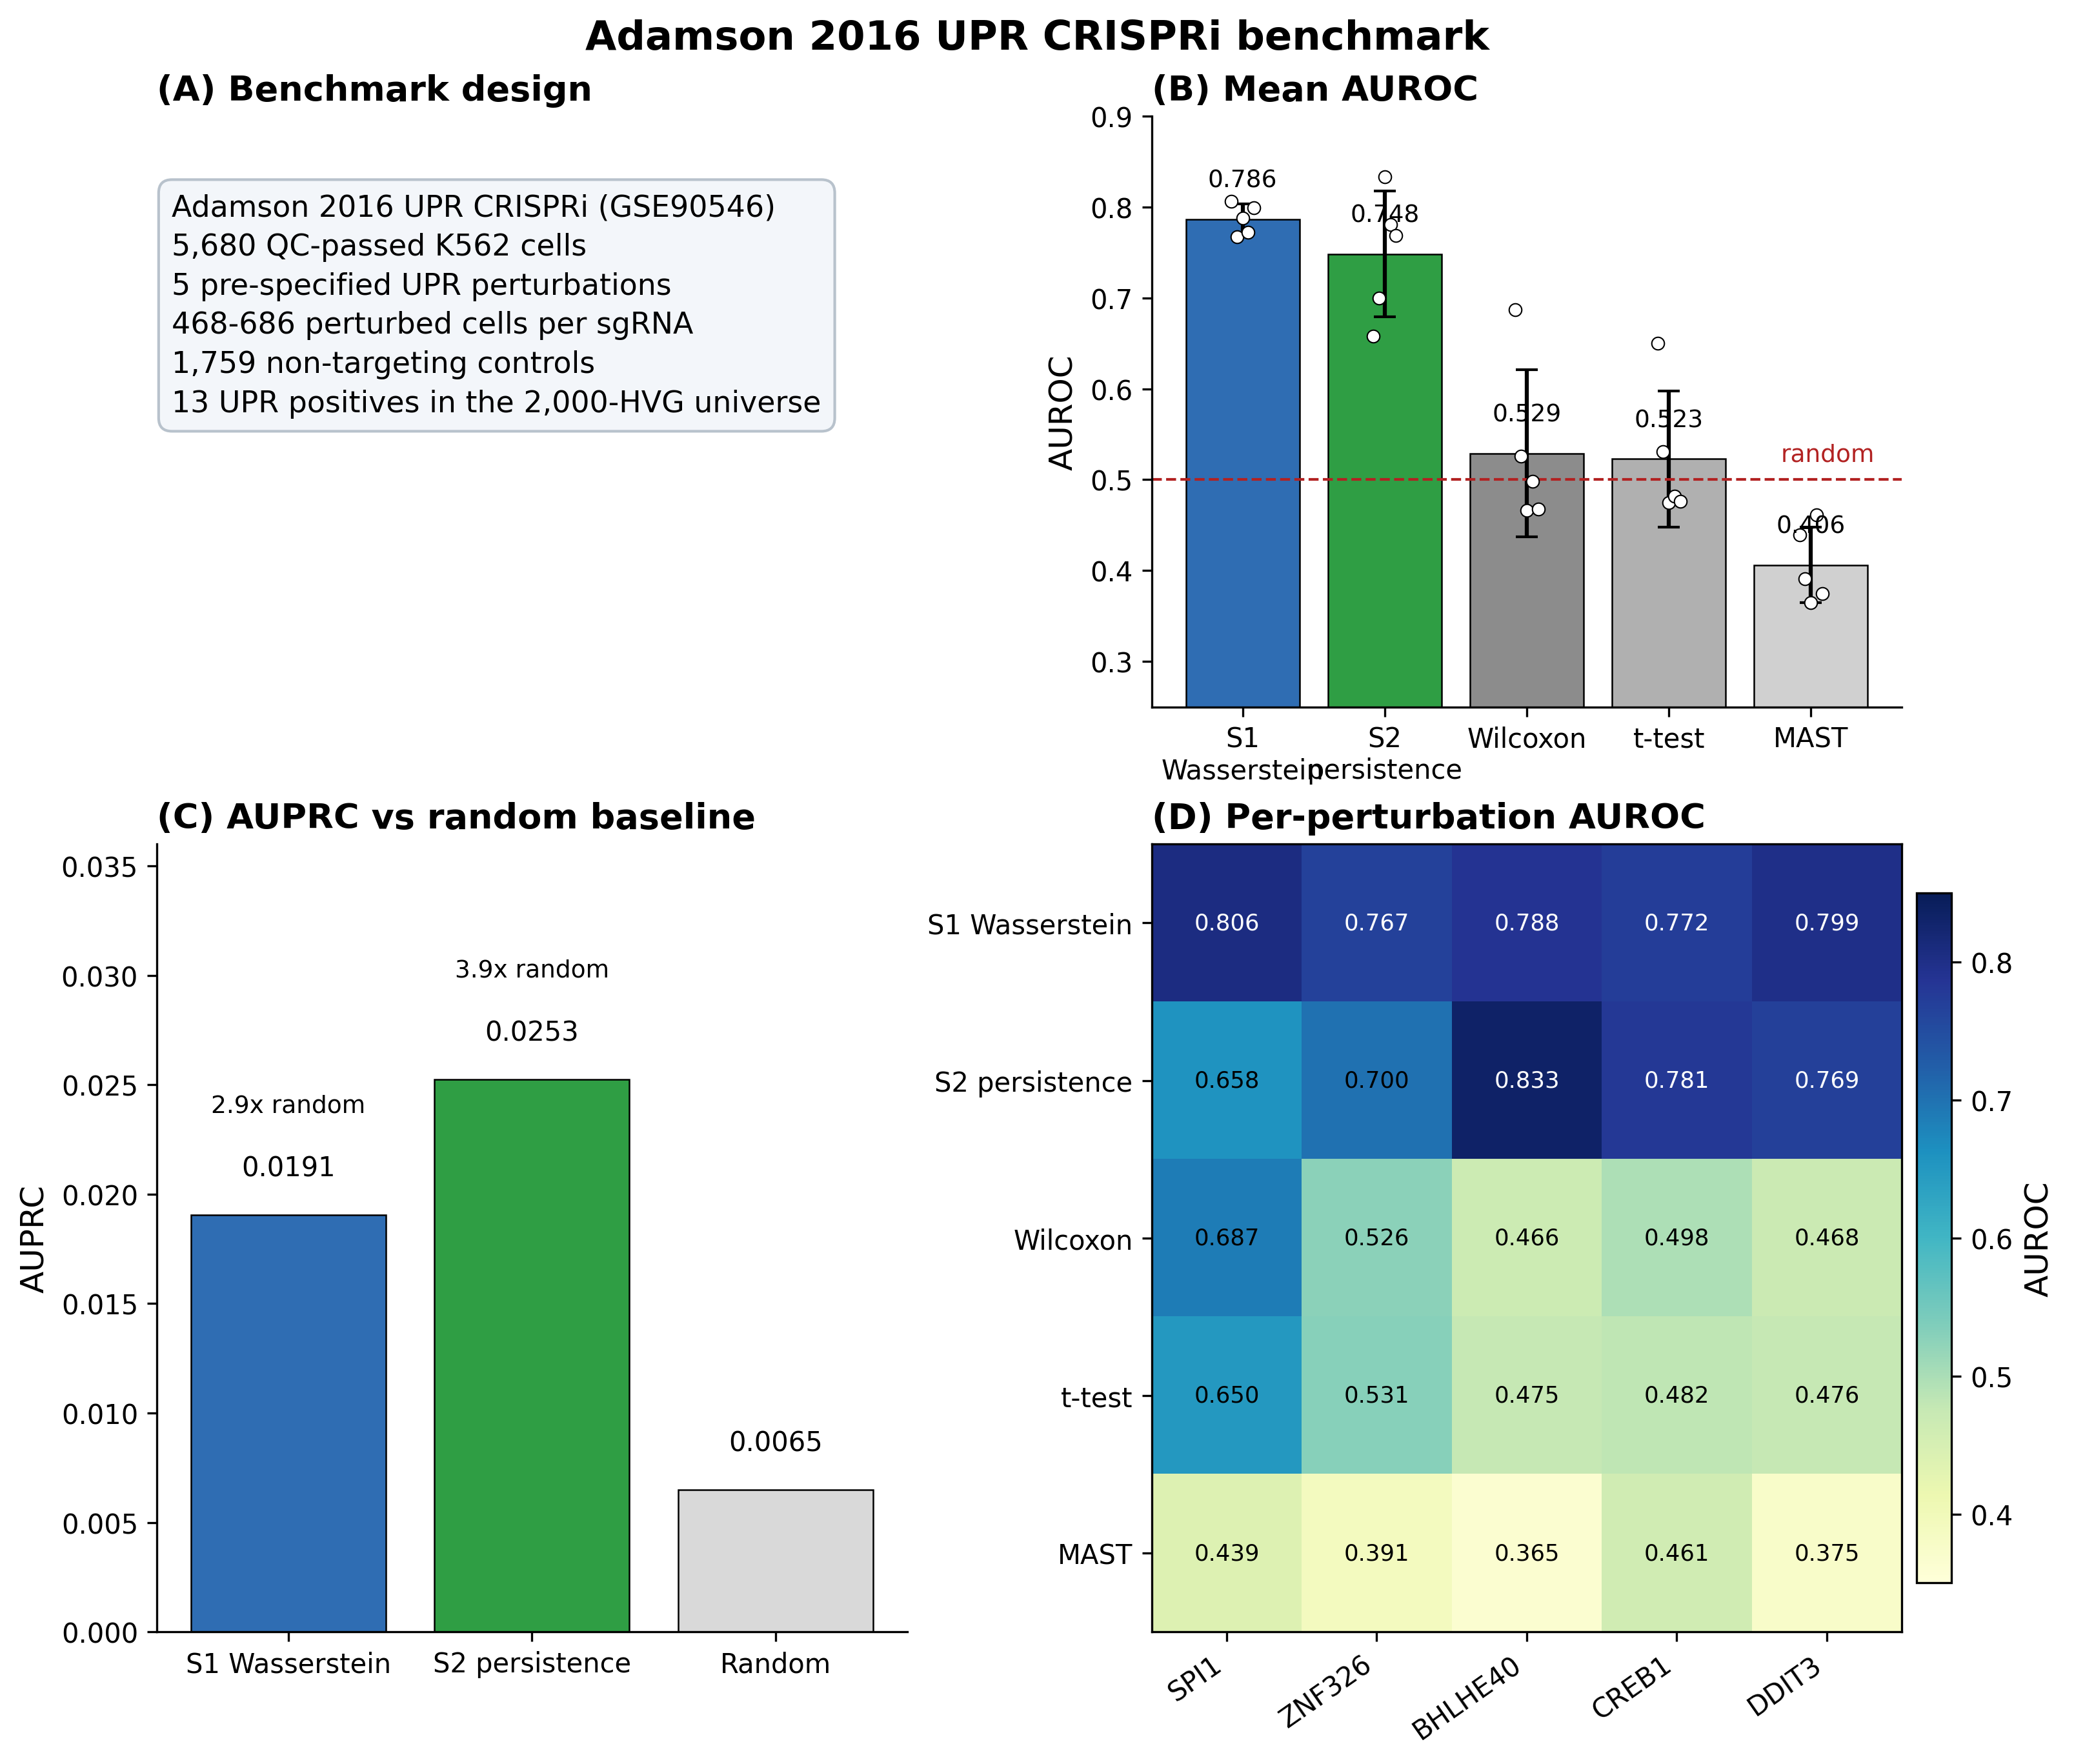
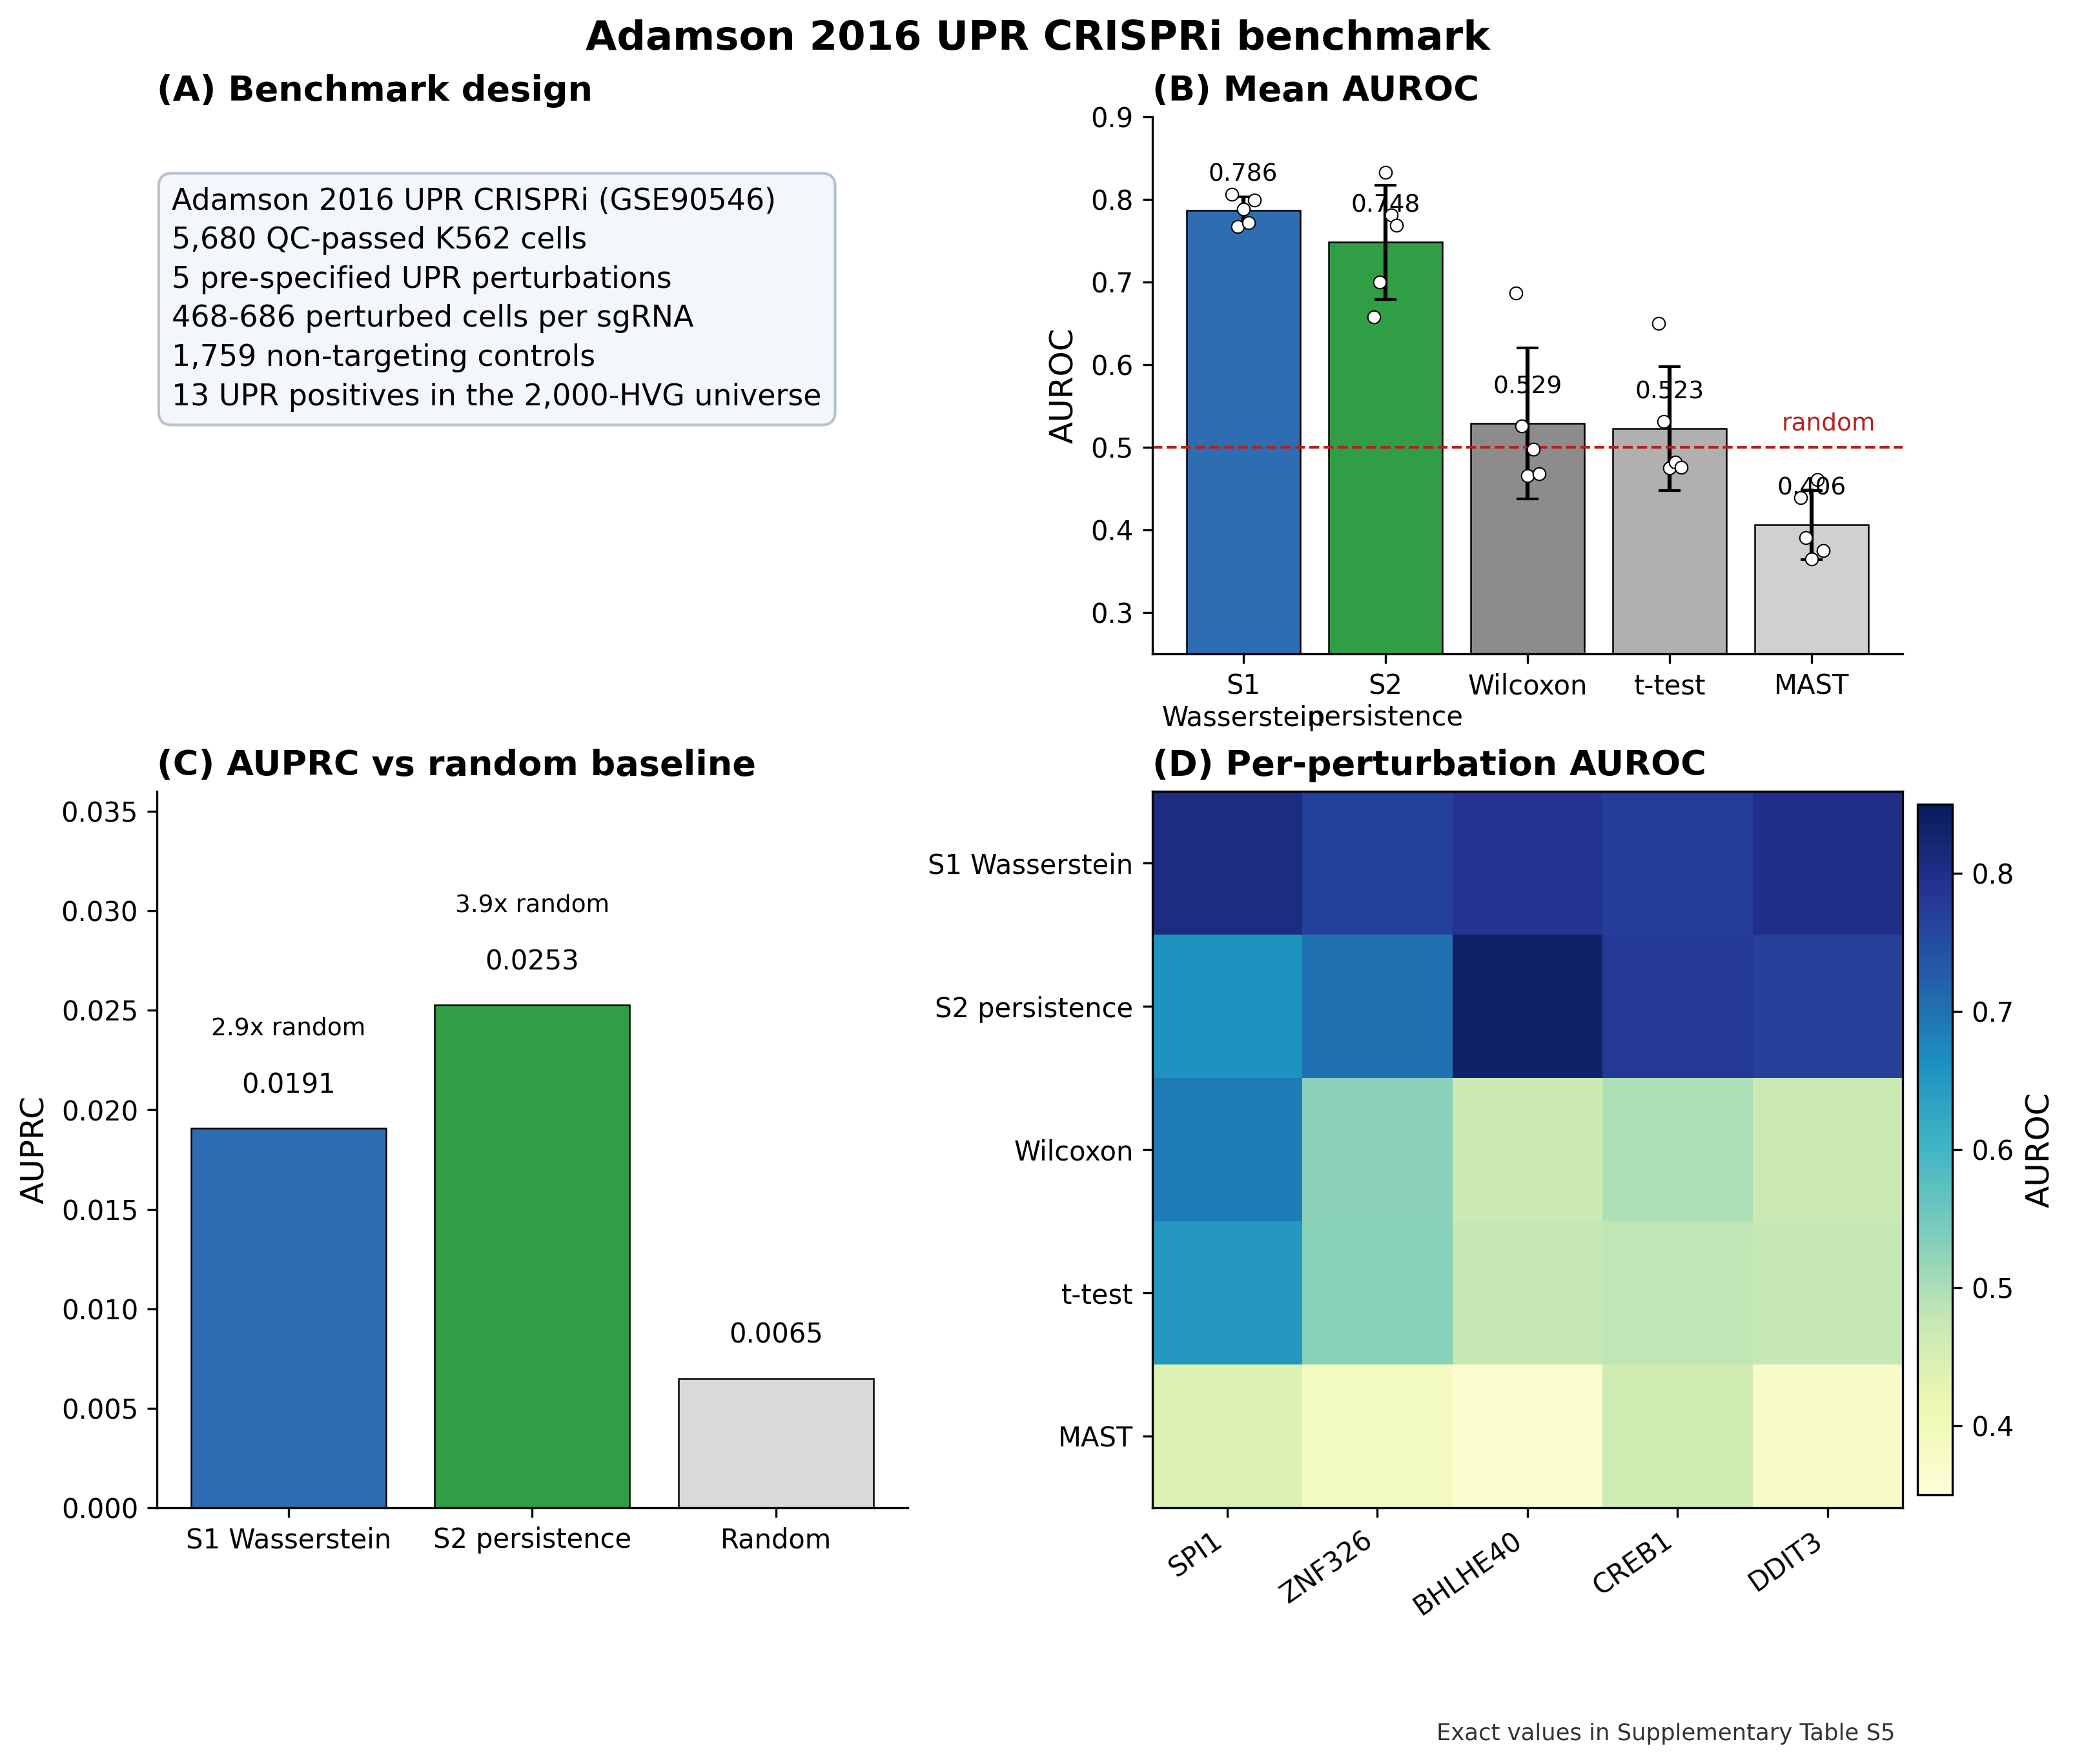
Tighten final Bioinformatics manuscript layout

diff --git a/scripts/figure_adamson_benchmark.py b/scripts/figure_adamson_benchmark.py
@@ -106,12 +106,18 @@ def main() -> None:
     ax_d.set_xticklabels(targets, rotation=35, ha="right")
     ax_d.set_yticks(np.arange(len(methods)))
     ax_d.set_yticklabels([m[0] for m in methods])
-    for i in range(heat.shape[0]):
-        for j in range(heat.shape[1]):
-            color = "white" if heat[i, j] > 0.72 else "black"
-            ax_d.text(j, i, f"{heat[i, j]:.3f}", ha="center", va="center", fontsize=8.5, color=color)
     cbar = fig.colorbar(im, ax=ax_d, fraction=0.046, pad=0.02)
     cbar.set_label("AUROC")
+    ax_d.text(
+        0.99,
+        -0.30,
+        "Exact values in Supplementary Table S5",
+        transform=ax_d.transAxes,
+        ha="right",
+        va="top",
+        fontsize=8.5,
+        color="#333333",
+    )
 
     fig.suptitle("Adamson 2016 UPR CRISPRi benchmark", fontsize=15, fontweight="bold")
     fig.savefig(OUT, dpi=300, bbox_inches="tight")

diff --git a/build_pdf.py b/build_pdf.py
@@ -34,7 +34,7 @@ fig_map = {
     '2': ('figures_png/figure_2.png', 'Norman 2019 CEBPE CRISPRa.'),
     '3': ('figures_png/figure_3.png', 'Calibration across six perturbations.'),
     '4': ('figures_png/figure_4.png', 'CLL 20k: Wasserstein and persistence.'),
-    '5': ('figures_png/figure_adamson_benchmark.png', 'Independent validation on Adamson 2016 UPR CRISPRi benchmark.'),
+    '5': ('figures_png/figure_adamson_benchmark.png', 'Independent validation on Adamson 2016 UPR CRISPRi benchmark. Exact per-perturbation values for panel D are provided in Supplementary Table S5.'),
     '6': ('figures_png/figure_5.png', 'Simulation ablation.'),
 }
 for num, (path, cap) in fig_map.items():

diff --git a/MANUSCRIPT.md b/MANUSCRIPT.md
@@ -65,7 +65,7 @@ The persistence statistic is the L2 distance between the top-3 persistence vecto
 
 $$S_2(g) = \sqrt{ \frac{1}{3} \sum_{k=1}^3 \bigl( p_k^{(1)} - p_k^{(0)} \bigr)^2 }.$$
 
-When a CRISPRa perturbation activates a gene in only a fraction of cells, the expression histogram can change from single-peaked to a heterogeneous or double-peaked pattern. The dominant persistence value may then increase substantially, yielding large S2 values. A pure mean shift that preserves the histogram shape leaves S2 comparatively unchanged. The contrast between these two scenarios is what makes the persistence statistic complementary to the Wasserstein statistic, but S2 is interpreted here as a ranking and diagnostic statistic rather than as a standalone genome-wide discovery test.
+When a CRISPRa perturbation activates a gene in only a fraction of cells, the expression histogram can change from a single dominant pattern to a heterogeneous responder-associated pattern. The dominant persistence value may then increase substantially, yielding large S2 values. A pure mean shift that preserves the histogram shape leaves S2 comparatively unchanged. The contrast between these two scenarios is what makes the persistence statistic complementary to the Wasserstein statistic, but S2 is interpreted here as a ranking and diagnostic statistic rather than as a standalone genome-wide discovery test.
 
 The choice of $n_{\text{bins}}$ matters. Our sensitivity analysis (Section 3.5) tests $n_{\text{bins}} \in \{20, 30, 50, 75, 100, 150\}$. The default $n_{\text{bins}} = 20$ is well-calibrated on benchmark data (pi0-hat approximately 1.0-1.3 on Norman 2019 CEBPE). Larger values detect more targets at the cost of higher false-positive rates. We use 500 within-cluster permutations for the null. With 500 permutations, the minimum attainable $p$-value is $1/501 \approx 0.0020$, which is above the Bonferroni threshold for 2,000 genes ($2.5 \times 10^{-5}$). The persistence-based $p$-values therefore support ranking-based evaluation (AUROC) rather than formal FDR-controlled discovery; for genome-wide significance, we recommend $n_{\text{perms}} \ge 40{,}000$.
 
@@ -151,20 +151,7 @@ The CLL analysis uses rank-based inverse-normal scores (Supplementary Methods S3
 
 ### 3.5 Sensitivity to histogram bin count
 
-The persistence test depends on the number of histogram bins, and the dependence is non-trivial. We tested $n_{\text{bins}} \in \{20, 30, 50, 75, 100, 150\}$ on Norman 2019 CEBPE ($n_{\text{perms}} = 200$ for speed; main results use $n_{\text{perms}} = 500$).
-
-| n_bins | ELANE rank | ELANE p | n_sig | pi0-hat | Known hits |
-|---|---|---|---|---|---|
-| 20 | 32 | 0.025 | 66 | 1.32 | 1/9 |
-| 30 | 1807 | 0.672 | 387 | 0.41 | 0/9 |
-| 50 | 489 | 0.005 | 1063 | 0.25 | 3/9 |
-| 75 | 460 | 0.005 | 1087 | 0.23 | 4/9 |
-| 100 | 468 | 0.005 | 1087 | 0.23 | 5/9 |
-| 150 | 446 | 0.005 | 1073 | 0.23 | 4/9 |
-
-Table: Persistence test hyperparameter sensitivity on Norman 2019 CEBPE.
-
-The n_bins = 30 row is striking: at this resolution, the histogram bins merge the two modes of the bimodal distribution, and ELANE's signal collapses (rank 1807). This is a sharp failure mode, not a gradual degradation. We recommend the default $n_{\text{bins}} = 20$ as a starting point, with a pilot sweep ($n_{\text{bins}} \in \{10, 20, 30, 50\}$) to verify that the chosen value does not fall into the n_bins = 30 failure mode where peak merging destroys the persistence signal. The sweep should be performed on a control or null perturbation, not the perturbation of interest, to avoid overfitting. At $n_{\text{bins}} = 20$, the $p$-values are well-calibrated (pi0-hat = 1.32 with $n_{\text{perms}} = 200$; 1.00 with $n_{\text{perms}} = 500$) and ELANE achieves its best rank.
+The persistence test depends on the number of histogram bins, and the dependence is non-trivial. We tested $n_{\text{bins}} \in \{20, 30, 50, 75, 100, 150\}$ on Norman 2019 CEBPE ($n_{\text{perms}} = 200$ for speed; main results use $n_{\text{perms}} = 500$). The full sweep is reported in Supplementary Table S1. In brief, ELANE ranks well at $n_{\text{bins}} = 20$ (rank 32, $p = 0.025$, pi0-hat = 1.32 in the 200-permutation sweep), collapses at $n_{\text{bins}} = 30$ (rank 1807, $p = 0.672$), and larger bin counts produce many nominally significant genes with low pi0-hat values (0.23-0.25). This is a sharp failure mode rather than a gradual degradation. We recommend the default $n_{\text{bins}} = 20$ as a starting point, with a pilot sweep ($n_{\text{bins}} \in \{10, 20, 30, 50\}$) on a control or null perturbation to verify that the chosen value does not fall into a peak-merging failure mode. The sweep should not be tuned on the perturbation of interest.
 
 **[Supplementary Table S1]**
 
@@ -172,13 +159,13 @@ The n_bins = 30 row is striking: at this resolution, the histogram bins merge th
 
 To test PGAA on a small independent Perturb-seq dataset with a complementary perturbation modality, we applied both tests to the Adamson et al. (2016) UPR CRISPRi screen (GSE90546). After QC, 5,680 K562 cells were retained across five well-characterized sgRNA perturbations targeting UPR genes (SPI1, ZNF326, BHLHE40, CREB1, DDIT3; 468-686 cells each) and a non-targeting control (1,759 cells). The gold standard was a curated UPR marker set covering IRE1, PERK, ATF6, ERAD, and chaperone branches, of which 13 markers were present in the 2,000-gene HVG subset.
 
-Across the five perturbations, the Wasserstein test achieved a mean AUROC of 0.786 (range [phone redacted], mean AUPRC 0.0191) for recovering known UPR genes. By comparison, Wilcoxon, t-test, and MAST achieved mean AUROCs of 0.529, 0.523, and 0.406 respectively in the same benchmark. The persistence test achieved a mean AUROC of 0.748 (range [phone redacted], mean AUPRC 0.0253). Descriptive 95% t intervals across the five pre-specified perturbations are reported in Supplementary Table S12; these intervals quantify between-perturbation variability and are not a substitute for a larger independent benchmark panel. For the BHLHE40 knockdown, the persistence test was the strongest method overall (AUROC 0.833, AUPRC 0.0594 vs. Wasserstein AUROC 0.788), consistent with a heterogeneous, potentially bimodal transcriptional response. Because only 13 of the 2,000 HVGs were UPR positives, the random AUPRC baseline was 0.0065; observed AUPRC values correspond to 2.9x and 3.9x enrichment over random expectation for the Wasserstein and persistence tests, respectively. These perturbations were selected a priori based on UPR annotation in the original study and a minimum cell-count threshold ($\ge 400$ cells), not based on PGAA performance (Supplementary Table S5).
+Across the five perturbations, the Wasserstein test achieved a mean AUROC of 0.786 (range [phone redacted], mean AUPRC 0.0191) for recovering known UPR genes. By comparison, Wilcoxon, t-test, and MAST achieved mean AUROCs of 0.529, 0.523, and 0.406 respectively in the same benchmark. The persistence test achieved a mean AUROC of 0.748 (range [phone redacted], mean AUPRC 0.0253). Descriptive 95% t intervals across the five pre-specified perturbations are reported in Supplementary Table S12; these intervals quantify between-perturbation variability and are not a substitute for a larger independent benchmark panel. For the BHLHE40 knockdown, the persistence test was the strongest method overall (AUROC 0.833, AUPRC 0.0594 vs. Wasserstein AUROC 0.788), consistent with a heterogeneous responder-associated expression pattern. Because only 13 of the 2,000 HVGs were UPR positives, the random AUPRC baseline was 0.0065; observed AUPRC values correspond to 2.9x and 3.9x enrichment over random expectation for the Wasserstein and persistence tests, respectively. These perturbations were selected a priori based on UPR annotation in the original study and a minimum cell-count threshold ($\ge 400$ cells), not based on PGAA performance (Supplementary Table S5).
 
 **[Figure 5]**
 
 ### 3.7 Simulation ablation maps each statistic to its regime
 
-To systematically assess when each statistic performs best, we simulated three perturbation types at seven effect sizes ($\theta \in \{0.1, \ldots, 1.0\}$) with three replicates each (63 conditions total).
+To systematically assess when each statistic performs best, we simulated three perturbation types at seven effect sizes ($\theta \in \{0.1, \ldots, 1.0\}$) with three replicates each (63 conditions total). These simulations are intended as operating-regime diagnostics rather than a full generative model of scRNA-seq count data.
 
 Type A (pure mean shift) is the Wasserstein test's home territory (TPR = 0.97 at $\theta = 1.0$). Type C (mean + bimodality) favors the Wasserstein test as well. The most informative condition is Type B, where only 40% of perturbed cells respond. Here the Wasserstein test and the combined z-test are competitive (TPR = 0.52–0.85 depending on $\theta$), while persistent homology reaches only TPR = 0.12. This simulation uses *partial* bimodality—the two modes overlap in the 40%-response regime. On real CRISPRa data where the split is more complete (nearer to 50% "on" vs. 50% "off"), persistent homology's performance is stronger, as demonstrated by the Norman 2019 results.
 
@@ -198,7 +185,7 @@ Table: Practical decision rule for statistic selection.
 
 ## 4. Discussion
 
-We set out to test whether distribution-aware statistics could detect Perturb-seq responses that mean-based methods may rank poorly. The answer, based on two independent Perturb-seq datasets with complementary perturbation modalities, is cautiously positive. On Norman 2019 CEBPE CRISPRa, the persistence statistic ranked the known neutrophil granule target ELANE at position 57, while SCEPTRE and the Wasserstein statistic placed it at 1761 and 1452; across the full nine-gene target set, however, recovery remained limited. On the small Adamson 2016 UPR CRISPRi benchmark, the Wasserstein statistic achieved a mean AUROC of 0.786 across five perturbations, outperforming Wilcoxon (0.529), t-test (0.523), and MAST (0.406) in this benchmark. In the BHLHE40 knockdown case, the persistence statistic was the strongest method overall (AUROC 0.833), consistent with a heterogeneous, potentially bimodal transcriptional response.
+We set out to test whether distribution-aware statistics could detect Perturb-seq responses that mean-based methods may rank poorly. The answer, based on two independent Perturb-seq datasets with complementary perturbation modalities, is cautiously positive. On Norman 2019 CEBPE CRISPRa, the persistence statistic ranked the known neutrophil granule target ELANE at position 57, while SCEPTRE and the Wasserstein statistic placed it at 1761 and 1452; across the full nine-gene target set, however, recovery remained limited. On the small Adamson 2016 UPR CRISPRi benchmark, the Wasserstein statistic achieved a mean AUROC of 0.786 across five perturbations, outperforming Wilcoxon (0.529), t-test (0.523), and MAST (0.406) in this benchmark. In the BHLHE40 knockdown case, the persistence statistic was the strongest method overall (AUROC 0.833), consistent with a heterogeneous responder-associated expression pattern.
 
 These results suggest a practical two-pronged strategy for Perturb-seq analysis. The Wasserstein statistic is a useful default distributional score when the perturbation type is unknown. The persistence statistic fills a narrower niche--CRISPRa screens, weak-effect perturbations, and any setting where the response is expected to be heterogeneous--but requires the user to verify calibration via the Storey pi0-hat diagnostic and to run a pilot n_bins sweep before committing to results. The persistence statistic's strong dependence on histogram bin count (values at n_bins = 20 and n_bins = 50 correlate at only r = 0.12) means it should be treated as a ranking tool rather than a formal discovery procedure unless substantially more permutations are used.
 